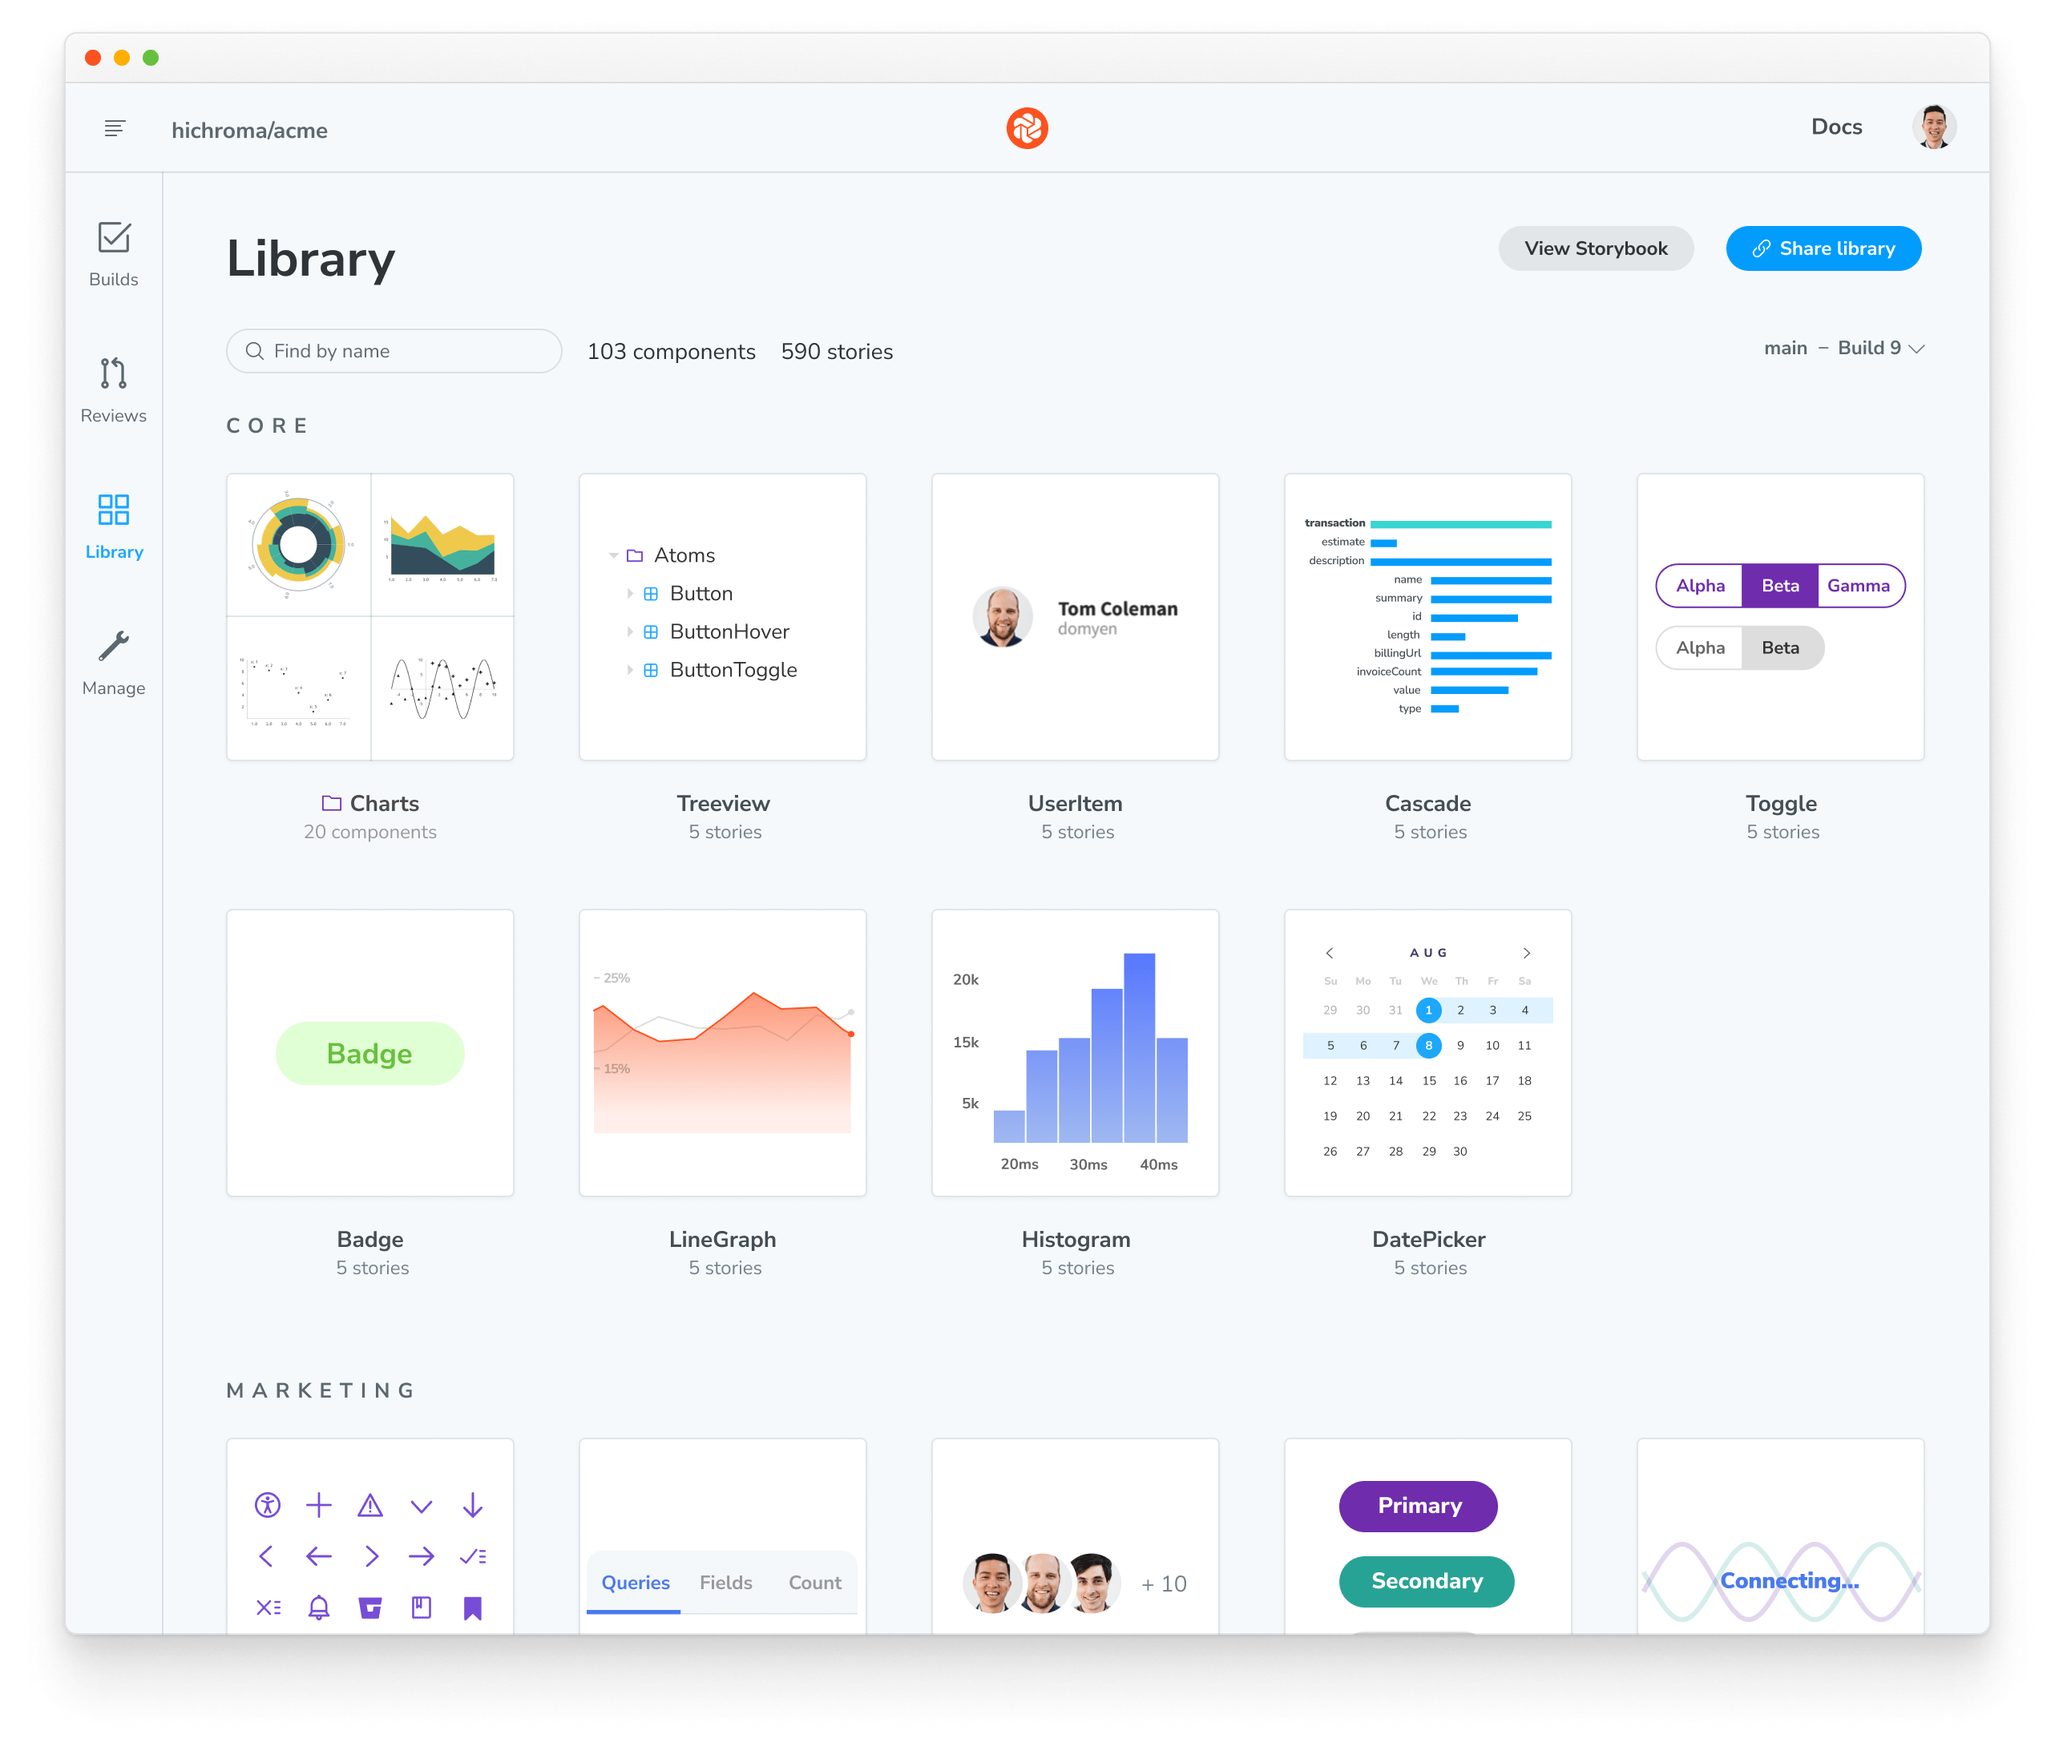
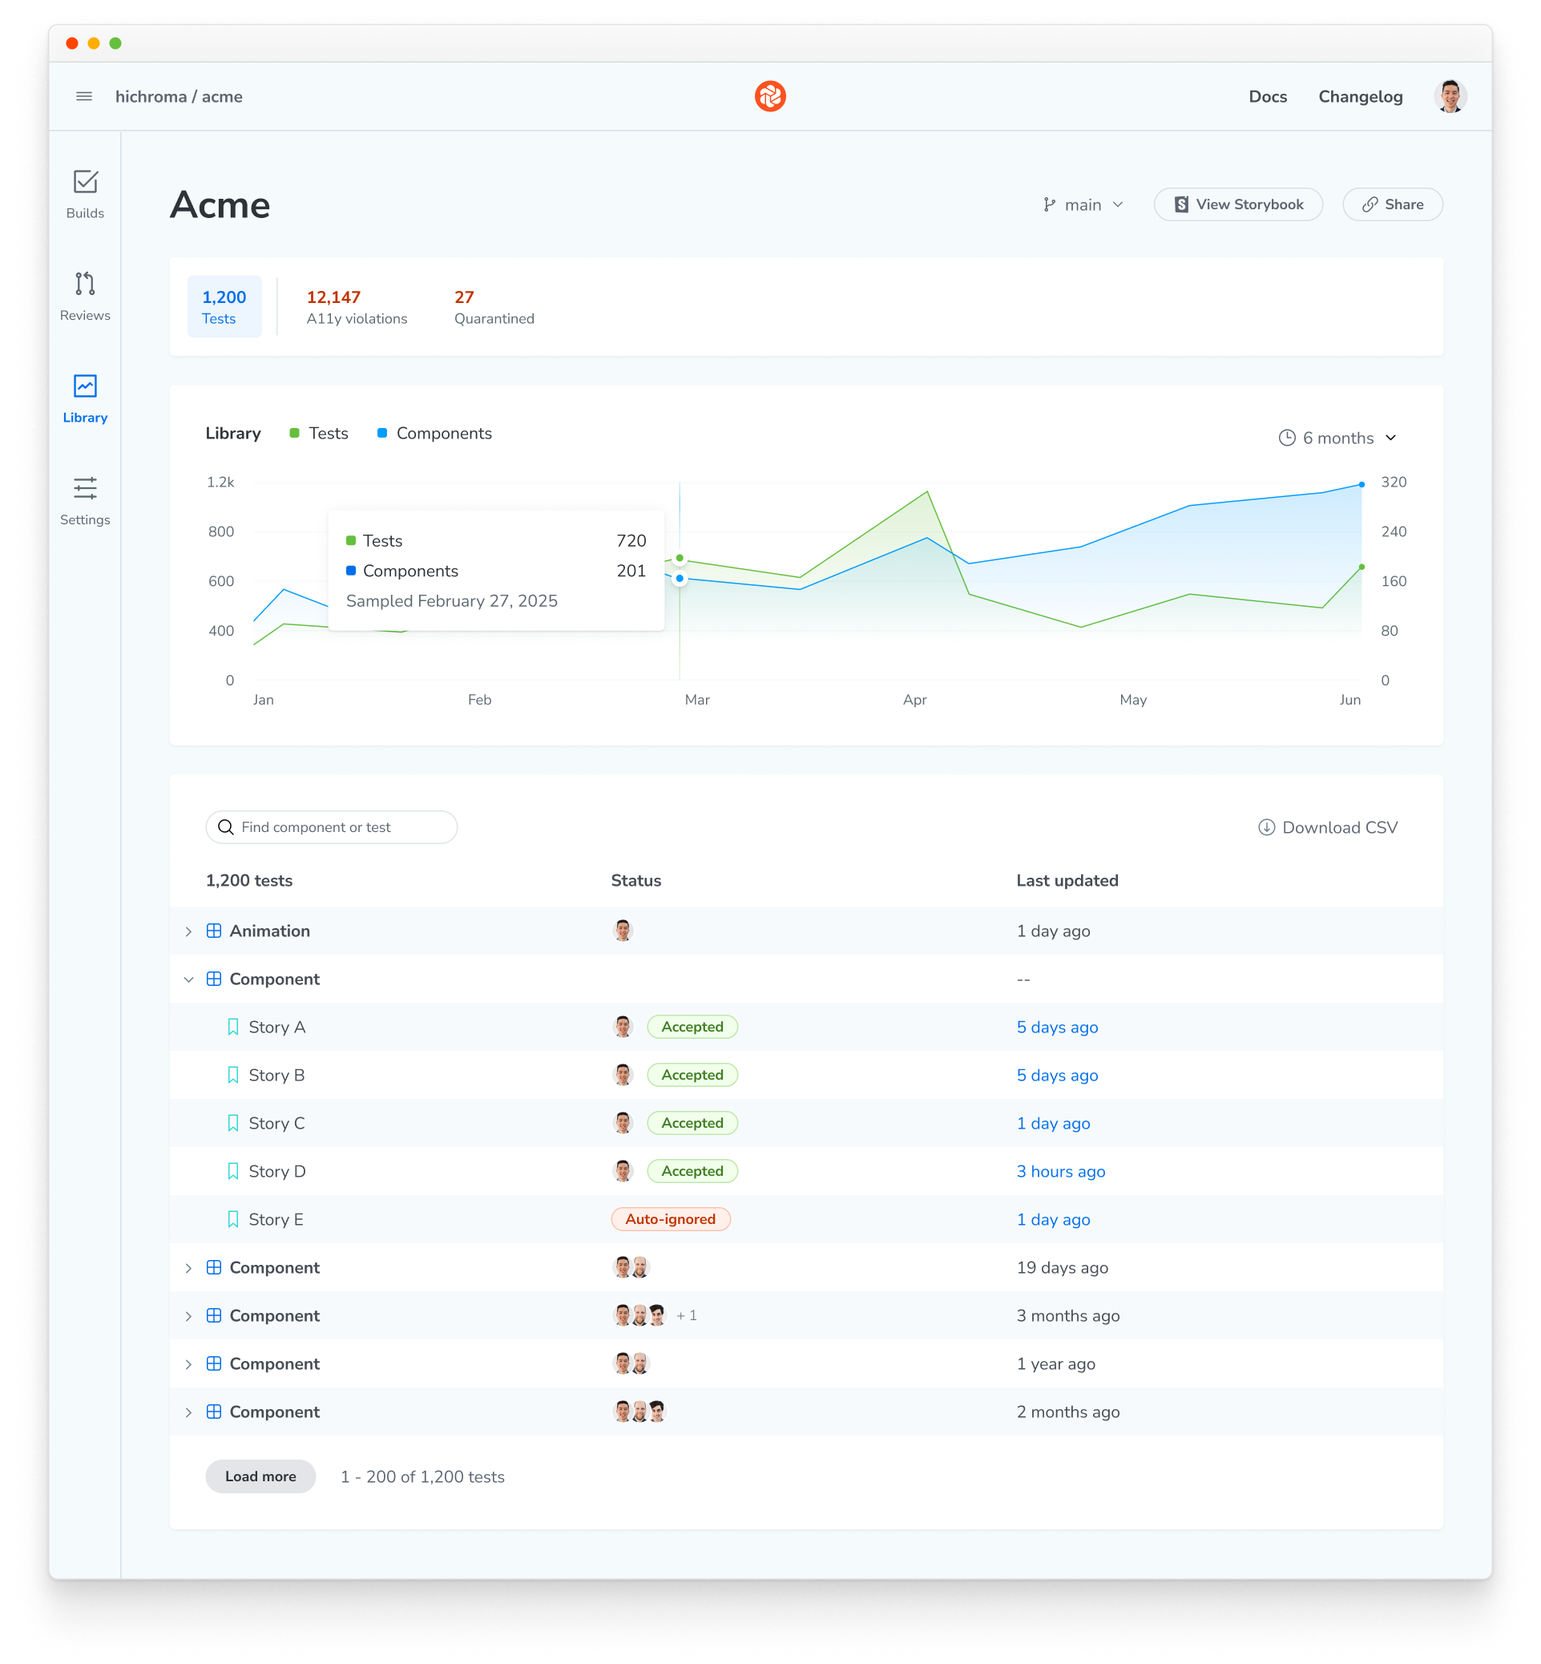
Document the new Library dashboard on the Publish page (#933)
* Document the new Library dashboard on the Publish page

Rewrite the Browse library section for the new Library page: the
Tests / A11y violations / Quarantined summary bar, the tests and
components time series, and the components and stories table.

Replace library.png with the new Library Tests view and swap the
page hero for the Library explainer, both wrapped in browser chrome.
Remove the now-unused workflow-document.png.

Claude-Session: https://claude.ai/code/session_01CuKiS9Gt7wnVEpYRUtNVPv

* Link the Quarantined view to the quarantine dashboard section

Claude-Session: https://claude.ai/code/session_01CuKiS9Gt7wnVEpYRUtNVPv

* Re-export Library images from Figma

Claude-Session: https://claude.ai/code/session_01CuKiS9Gt7wnVEpYRUtNVPv

* Drop the chart and table subsections from Browse library

Claude-Session: https://claude.ai/code/session_01CuKiS9Gt7wnVEpYRUtNVPv

* Drop the hero image from the Publish page

Claude-Session: https://claude.ai/code/session_01CuKiS9Gt7wnVEpYRUtNVPv

---------

diff --git a/src/content/collaborate/publish.md b/src/content/collaborate/publish.md
@@ -8,8 +8,6 @@ sidebar: { order: 8 }
 
 The Chromatic CLI builds and publishes your Storybook to a secure online workspace, making all your stories accessible to your team at [chromatic.com](https://www.chromatic.com/start). Chromatic also indexes and versions your stories, creating a searchable library within the web app. This allows teams to discover, reuse, and reference existing components easily.
 
-![Chromatic's publishing feature enables you to browse your component library and demo live components in the browser](../../images/workflow-document.png)
-
 ## Direct access to your Storybook
 
 Every time you trigger a Chromatic build, your Storybook is published on our secure CDN. Published Storybooks are private by default with [access](/docs/access) restricted to logged in collaborators. [Visibility](/docs/access/collaborators#storybook-visibility) can be set to public if desired.
@@ -34,13 +32,15 @@ If you're documenting components outside of Storybook, you may be able to [embed
 
 ## Browse library
 
-The library screen within the Chromatic web app visualizes the latest components on a branch-by-branch basis. Browse existing components to reuse or reference. Use the branch picker to find branch-specific components.
+The **Library** page in the Chromatic web app is a dashboard for your project's tests and components. It shows the latest components on a branch, how your test suite has grown over time, and the status of every story.
 
-- Identify changes by comparing historical commits and branches
-- Share the library with teammates
-- Browse existing components for re-use
+The summary bar at the top of the page switches between three views:
 
-![Component library](../../images/library.png)
+- **Tests**: Every component and story in the project, with test and component counts over time
+- **A11y violations**: Accessibility issues across your components. See the [accessibility dashboard](/docs/accessibility/dashboard).
+- **Quarantined**: Flaky tests that Chromatic ignores across all builds. See the [quarantine dashboard](/docs/quarantine-tests#dashboard-tracks-all-the-quarantined-tests).
+
+![The Library page showing the Tests view: a chart of test and component counts over six months, and a table of components and stories with their status and last updated time](../../images/library.png)
 
 ## Demo components
 
